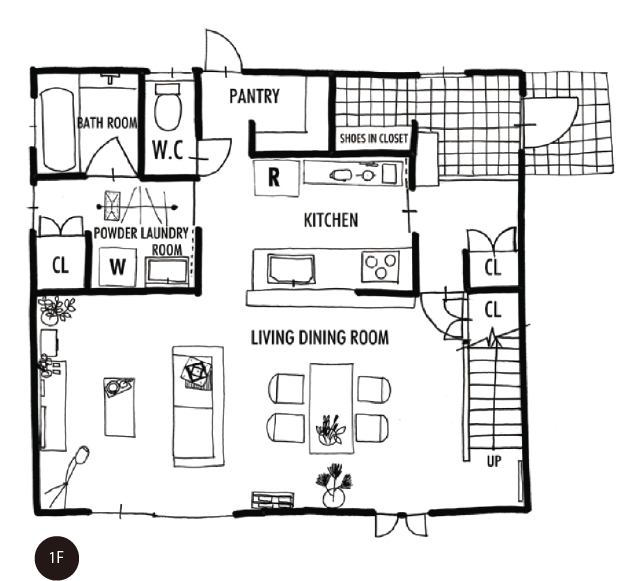
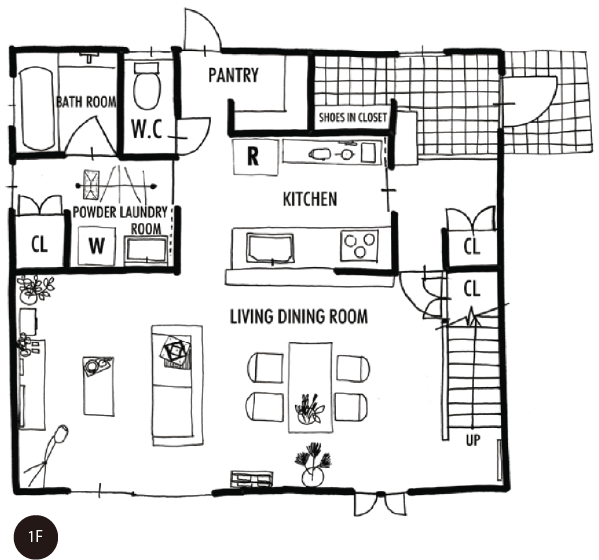
planのCSS追加

diff --git a/common/css/style.css b/common/css/style.css
@@ -1062,6 +1062,28 @@ html {
 
 /*
 ========================================================
+	- p-plan
+========================================================
+*/
+.p-plan {
+  width: 1195px;
+  margin: 330px auto 130px auto;
+  text-align: center;
+}
+.p-plan p {
+  margin: 62px auto 130px auto;
+}
+@media screen and (max-width: 576px) and (orientation: portrait) {
+  .p-plan {
+    width: 100%;
+  }
+  .p-plan img {
+    width: 100%;
+  }
+}
+
+/*
+========================================================
 	- c-heading
 ========================================================
 */
@@ -1132,6 +1154,31 @@ html {
   position: absolute;
   left: 0;
   bottom: 0;
+  /*線の上下位置*/
+  display: inline-block;
+  width: 50%;
+  /*線の長さ*/
+  height: 1px;
+  /*線の太さ*/
+  background-color: #CBCBCB;
+  /*線の色*/
+  border-radius: 2px;
+  /*線の丸み*/
+}
+
+/*plan*/
+.c-heading.is-plan {
+  font-size: 47px;
+  display: inline-block;
+  padding-bottom: 20px;
+  position: relative;
+}
+
+.c-heading.is-plan:before {
+  content: "";
+  position: absolute;
+  left: 25%;
+  top: 0;
   /*線の上下位置*/
   display: inline-block;
   width: 50%;
@@ -1394,4 +1441,41 @@ button {
 
 .c-text__detail.is-design {
   font-size: 19px;
+}
+
+/*
+========================================================
+	- c-list
+========================================================
+*/
+/*plan*/
+.c-list.is-plan {
+  display: inline-block;
+}
+.c-list.is-plan dl {
+  width: 80%;
+  padding: 1em 0px 1em 0em;
+  border-bottom: solid 1px #cbcbcb;
+  display: inline-block;
+}
+.c-list.is-plan dl dt {
+  /*左に寄せる*/
+  text-align: left;
+  float: left;
+  /*後続の左寄せを解除*/
+  clear: left;
+  margin-right: 0.5em;
+  width: 145px;
+}
+.c-list.is-plan dl dd {
+  float: left;
+  margin-left: 1em;
+}
+.c-list.is-plan dl dd .is-tag {
+  display: inline-block;
+  border-radius: 5px;
+  background-color: #fff;
+  border: solid 1px #cbcbcb;
+  padding: 0.2em 0.5em 0.2em 0.5em;
+  margin-left: 1em;
 }

diff --git a/app/scss/object/component/_list.scss b/app/scss/object/component/_list.scss
@@ -1,0 +1,38 @@
+/*
+========================================================
+	- c-list
+========================================================
+*/
+/*plan*/
+.c-list.is-plan{
+  display: inline-block;
+
+  dl{
+     width:80%;
+     padding: 1em 0px 1em 0em;
+     border-bottom: solid 1px #cbcbcb;
+     display: inline-block;
+      dt {
+    	    /*左に寄せる*/
+          text-align:left;
+    	    float: left ;
+    	    /*後続の左寄せを解除*/
+    	    clear: left ;
+    	    margin-right: 0.5em ;
+    	    width: 145px ;
+    }
+
+    dd {
+    	    float: left ;
+    	    margin-left: 1em ;
+          .is-tag{
+              display: inline-block;
+              border-radius: 5px;
+              background-color: #fff;
+              border: solid 1px #cbcbcb;
+              padding: 0.2em  0.5em 0.2em  0.5em;
+              margin-left: 1em;
+          }
+    }
+  }
+}

diff --git a/app/scss/object/component/_heading.scss b/app/scss/object/component/_heading.scss
@@ -76,3 +76,22 @@
   background-color: #CBCBCB;/*線の色*/
   border-radius: 2px;/*線の丸み*/
 }
+
+/*plan*/
+.c-heading.is-plan{
+  font-size: 47px;
+  display:inline-block;
+  padding-bottom: 20px;
+  position: relative;
+}
+.c-heading.is-plan:before{
+  content: '';
+  position: absolute;
+  left: 25%;
+  top: 0;/*線の上下位置*/
+  display: inline-block;
+  width: 50%;/*線の長さ*/
+  height: 1px;/*線の太さ*/
+  background-color: #CBCBCB;/*線の色*/
+  border-radius: 2px;/*線の丸み*/
+}

diff --git a/app/scss/object/project/_plan.scss b/app/scss/object/project/_plan.scss
@@ -1,0 +1,21 @@
+/*
+========================================================
+	- p-plan
+========================================================
+*/
+
+.p-plan{
+  width: 1195px;
+  margin: 330px auto 130px auto;
+  text-align: center;
+  p{
+    margin: 62px auto 130px auto;
+  }
+
+  @include media-query('s') {
+    width:  100%;
+    img{
+      width:  100%;
+    }
+  }
+}

diff --git a/app/scss/object/project/_project.scss b/app/scss/object/project/_project.scss
@@ -2,4 +2,5 @@
         '_merrit',
         '_recommend',
         '_present',
-        '_design'
+        '_design',
+        '_plan'

diff --git a/app/scss/object/component/_component.scss b/app/scss/object/component/_component.scss
@@ -4,4 +4,5 @@
         '_num',
         '_button',
         '_slider',
-        '_text'
+        '_text',
+        '_list'

diff --git a/index.php b/index.php
@@ -142,32 +142,32 @@
 						<!-- *********** plan ************ -->
 						<section class="p-plan">
 							<h3><span class="c-heading is-plan is-en">PLAN</span></h3>
-							<img class="c-plan__img" src="<?=$pas;?>common/img/1x/plan1.png" height="581px" width="632px" alt="">
-							<img class="c-plan__img" src="<?=$pas;?>common/img/1x/plan2.png" height="581px" width="632px" alt="">
+							<img class="c-plan__img" src="<?=$pas;?>common/img/1x/plan1.png" height="560px" width="590px" alt="">
+							<img class="c-plan__img" src="<?=$pas;?>common/img/1x/plan2.png" height="517px" width="505px" alt="">
 							<p class="c-plan__text">1階床面積 　192.53㎡（58.24坪）　　2階床面積　139.01㎡（42.05坪）　　延床面積　331.54㎡（100.29坪）</p>
-							<div class="c-plan__list">
-								<dl class="c-plan__list__text">
+							<div class="c-list is-plan">
+								<dl class="">
 									<dt>商品プラン</dt>
 									<dd><span>ZERO-CUBE</span></dd>
 								</dl>
-								<dl class="c-plan__list__text">
+								<dl class="">
 									<dt>構造</dt>
 									<dd><span>木造2階建て</span></dd>
 								</dl>
-								<dl class="c-plan__list__text">
+								<dl class="">
 									<dt>設備・仕様</dt>
-									<dd><span  class="c-plan__list__text is-tag">W断熱/TOPS工法</span>
-										<span  class="c-plan__list__text is-tag">無垢材・自然素材</span>
-										<span  class="c-plan__list__text is-tag">高性能住宅</span>
-										<span  class="c-plan__list__text is-tag">玄関共有タイプ</span>
-										<span  class="c-plan__list__text is-tag">防音構造床</span>
+									<dd><span  class="is-tag">W断熱/TOPS工法</span>
+										<span  class="is-tag">無垢材・自然素材</span>
+										<span  class="is-tag">高性能住宅</span>
+										<span  class="is-tag">玄関共有タイプ</span>
+										<span  class="is-tag">防音構造床</span>
 									</dd>
 								</dl>
-								<dl class="c-plan__list__text">
+								<dl class="">
 									<dt>空間</dt>
-									<dd><span  class="c-plan__list__text is-tag">二世帯・多世帯</span>
-										<span  class="c-plan__list__text is-tag">1、2階リビング</span>
-										<span  class="c-plan__list__text is-tag">吹抜け</span>
+									<dd><span  class="is-tag">二世帯・多世帯</span>
+										<span  class="is-tag">1、2階リビング</span>
+										<span  class="is-tag">吹抜け</span>
 									</dd>
 								</dl>
 							</div>
